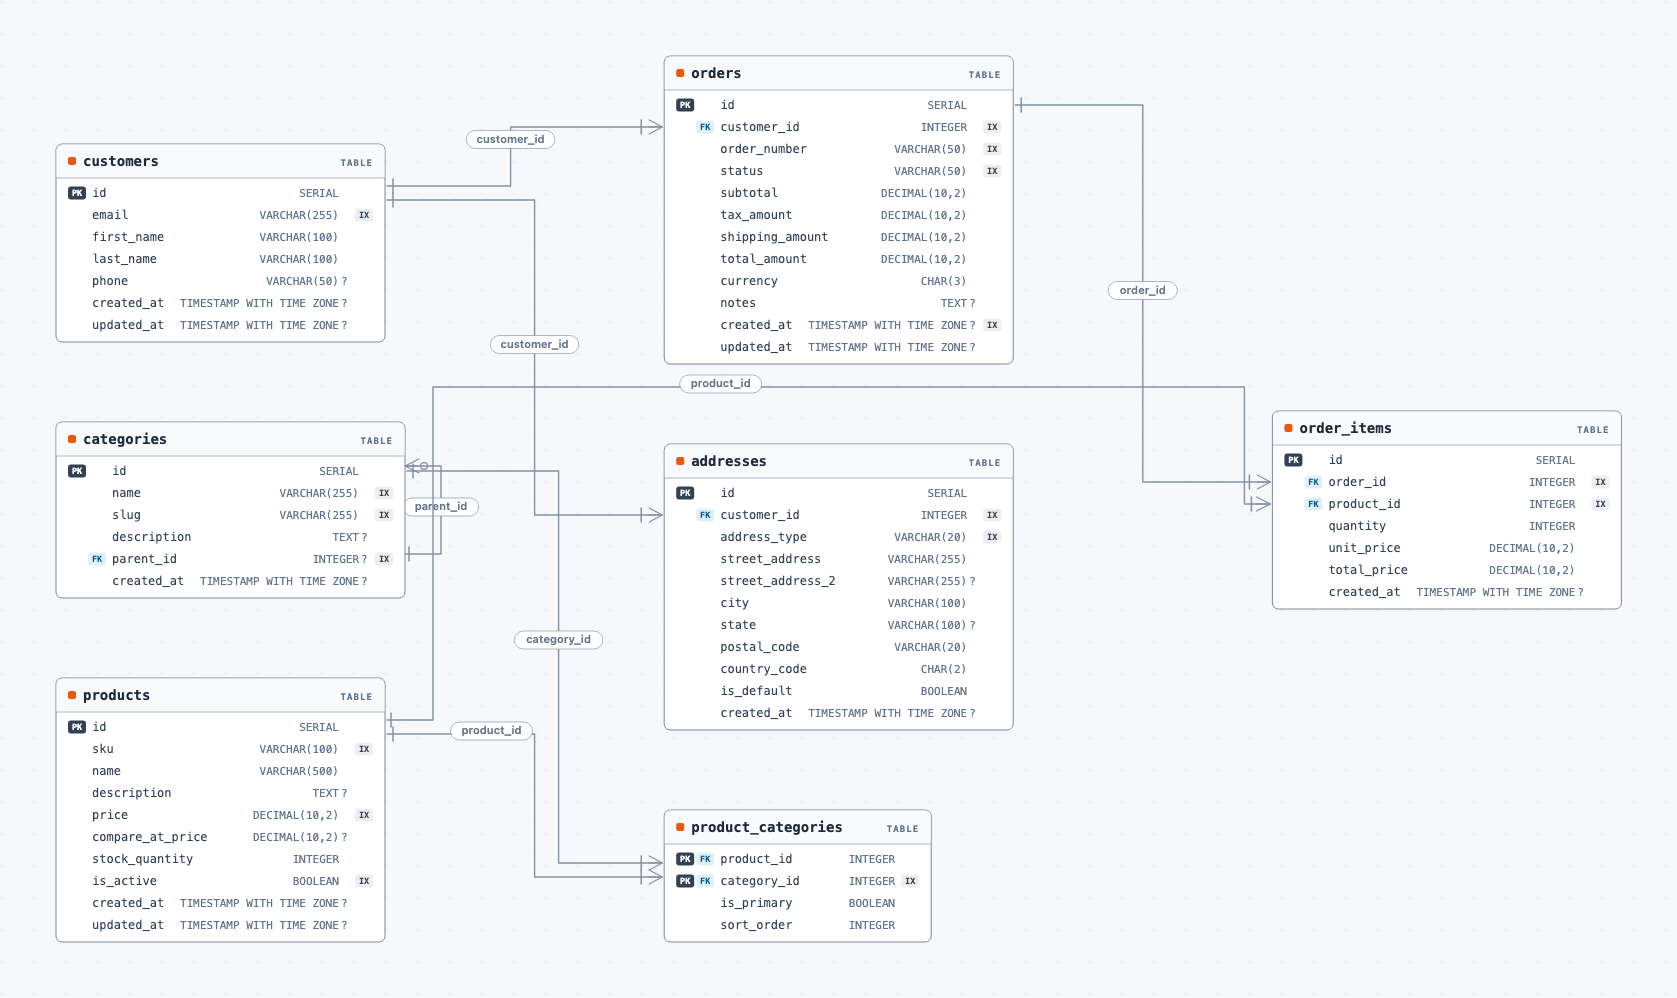
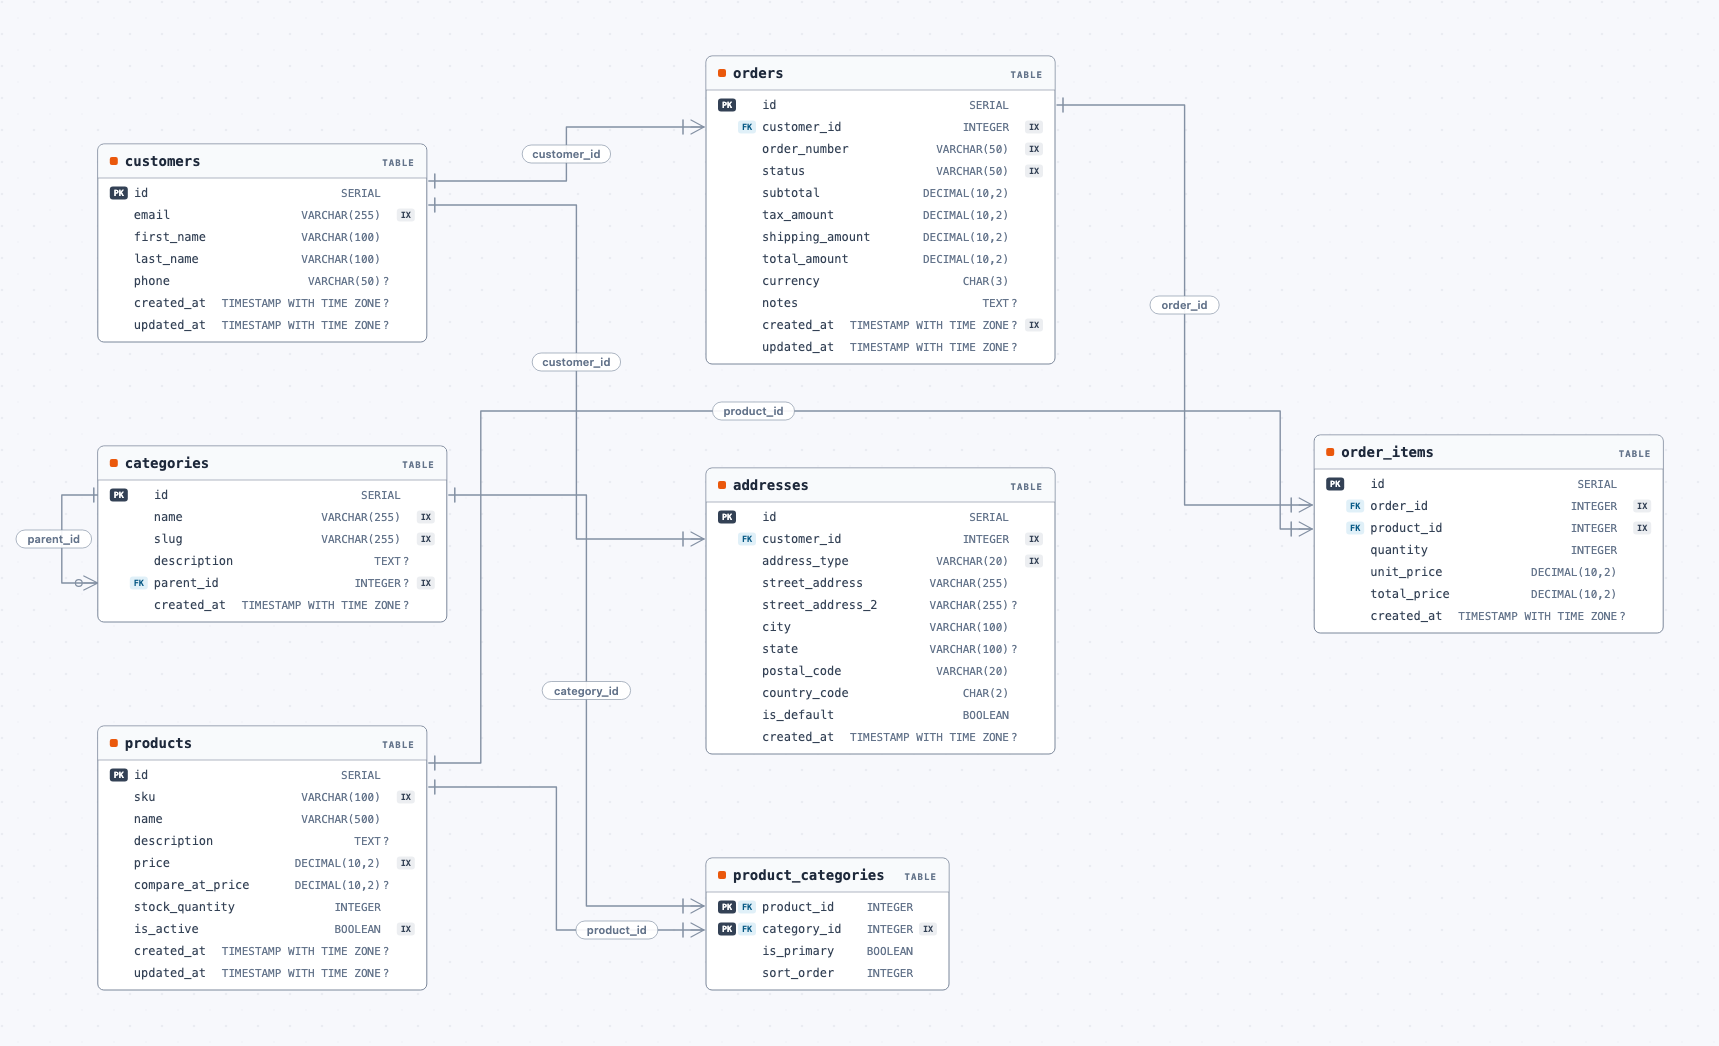
docs: describe marker-safe routing and label placement, refresh previews
ARCHITECTURE.md covers group headings as routing obstacles, the 30px
straight run kept for endpoint markers, the wider rank gap and port
spacing, channel spacing, straightened jogs, self-loops between their
column rows, labels kept on their own line, and the static SVG label
layer. The README previews are re-rendered: the static diagram's
self-loop now sits on the free side of its card, and the viewer's
customer_id line runs above the sales heading with its marker whole.

diff --git a/ARCHITECTURE.md b/ARCHITECTURE.md
@@ -233,9 +233,9 @@ Phases: build layout graph → grouping/focus → **card density** → layout al
 
 **Placement model** — Ranks come from longest-path layering after breaking foreign-key cycles with a greedy (Eades–Lin–Smyth) feedback arc set, so a dense cycle spans only the layers its acyclic skeleton needs. Crossing reduction runs on a proper layered graph: edges spanning several ranks are split into virtual nodes (shorter edges first, within a budget proportional to the node count), nodes without neighbours in the adjacent layer keep their slot, and the sweep keeps the ordering with the fewest crossings seen. Within each lane, alternating down/up sweeps move every ranked row toward the median centre of each node's neighbours (a weighted isotonic regression per row, bounded by the widest row), so parents and children line up without reordering or widening the lane. Nodes are then split into clusters: weakly connected components, merged with their group so a group container never spans two clusters. Inside a cluster, groups sit side by side as lanes that share the cluster's rank rows, so edges between groups still flow along the primary axis, and tables without any edge are packed into a grid below their lane. Clusters are wrapped into shelves along the secondary axis, sized toward a screen-friendly aspect ratio but never narrower than the widest cluster, so a single connected schema keeps its original placement. Routing uses the packed row index as the rank, and rows are disjoint bands along the primary axis. In force-directed mode, the packing pass only separates items that share a rank row, are directly linked, or sit next to a self-loop, so unrelated tables on different ranks can share a column; routing rows are then recomputed as disjoint bands of the final primary-axis extents. Each node's summed edge attraction is capped so the damped simulation stays stable around hubs referenced by hundreds of tables. Force-directed repulsion and overlap resolution use a uniform grid sized from the median node, with each node registered in every cell it covers, so one oversized table does not degrade them to O(n²); overlaps left after the pass budget are removed by a deterministic sweep.
 
-**Routing model** — Layout returns one canonical orthogonal backbone for routed edges. Hierarchical routing uses `port -> stub -> channel -> stub -> port`, then scores inter-rank, same-rank, and reverse-flow channel candidates in a deterministic greedy edge order. Foreign keys point from a child to the parent ranked above it, so that direction is the regular inter-rank flow whose channels must stay inside the gap between ranks; only edges pointing down the ranks are reverse edges. Bypass lanes start outside every node overlapping the rectangle spanned by the endpoints. Obstacle checks look nodes and placed labels up through a uniform-grid spatial index around each route segment instead of scanning every node per candidate. Candidate scoring treats obstacle hits, endpoint-side violations, and primary-direction backtracking against rank order as hard constraints before weighted soft costs for clearance, route length, bend count, center deviation, and channel congestion. After route selection, nearby parallel edges on the same channel may share a bundled trunk for readability. `orthogonal` and `curved` reuse this backbone, while `straight` skips control points and renders as a direct source-to-target segment.
+**Routing model** — Layout returns one canonical orthogonal backbone for routed edges. Hierarchical routing uses `port -> stub -> channel -> stub -> port`, then scores inter-rank, same-rank, and reverse-flow channel candidates in a deterministic greedy edge order. Foreign keys point from a child to the parent ranked above it, so that direction is the regular inter-rank flow whose channels must stay inside the gap between ranks; only edges pointing down the ranks are reverse edges. Bypass lanes start outside every node overlapping the rectangle spanned by the endpoints, and their stubs step out of each rank on the side facing the other one, judged by where the ranks sit so bottom-to-top and right-to-left layouts bypass cards too. Groups are positioned before routing, and each group heading's text area joins the cards as an obstacle for channels, detours, and labels, so no line runs through a heading. Obstacle checks look nodes, headings, and placed labels up through a uniform-grid spatial index around each route segment instead of scanning every node per candidate. Candidate scoring treats obstacle hits, endpoint-side violations, and primary-direction backtracking against rank order as hard constraints; next it ranks candidates that keep a 30px straight run at each card before the first bend (`MIN_ENDPOINT_STUB`, room for a whole Crow's Foot marker), adding lanes every 10px across the part of the rank gap that allows it, and only then weighs soft costs for clearance, route length, bend count, center deviation, and channel congestion, which counts edges on any channel within 9px so parallel lines never run side by side as one. Ranks sit 104px apart by default (also the compaction floor), enough for a marker at each end of a line and a label between them. After route selection, nearby parallel edges on the same channel may share a bundled trunk for readability; bundle anchors also reach past the marker. A vertical route whose ends are under 16px apart is drawn straight when one end can slide along its top or bottom side without crowding another port or crossing a card; side ports stay put, since their height names a column row. `orthogonal` and `curved` reuse this backbone, while `straight` skips control points and renders as a direct source-to-target segment.
 
-**Quality passes** — After backbone routing, `nudge_label` shifts edge labels away from overlapping nodes. `detour_around_obstacles` is no longer part of the non-self-loop path and is only used for self-loop handling, while routing keeps a detour activation count for any non-self-loop edge whose final backbone still intersects padded obstacles. Additionally, `auto_tuned` adjusts horizontal/vertical spacing based on node count and edge density before coordinate assignment, and port slot offsets keep parallel edges stable on each node side, shrinking the slot gap when needed so every port stays on its node side. `layout-json` exposes this routing state through graph-level and per-edge `routing_debug` metadata so fixture diffs can explain side policy, slot assignment, and selected channel coordinates directly. Finally, the canvas is fitted to every drawn element (nodes, groups, routes with marker room, and labels, including group labels that extend past their container); when routing places content left of or above the origin, the whole drawing is shifted so the `0 0 width height` viewport never clips it.
+**Quality passes** — After backbone routing, labels are placed on their own line: cards, headings, endpoint markers, and other labels are hard obstacles, while other lines and the label's own bends are soft ones, so a label takes the clearest spot along its line, steps aside only as far as still touches the line (measured across the local segment), and moves farther out (`nudge_label`) only when every spot on the line covers something hard. `detour_around_obstacles` is no longer part of the non-self-loop path and is only used for self-loop handling, while routing keeps a detour activation count for any non-self-loop edge whose final backbone still intersects padded obstacles. Additionally, `auto_tuned` adjusts horizontal/vertical spacing based on node count and edge density before coordinate assignment, and port slot offsets keep parallel edges stable on each node side, 24px apart and no closer than 20px so neighbouring Crow's Feet never merge, shrinking further only when the side itself is too short. Ports that tie on where the other card sits break the tie by column row only on left and right sides, so lines between the same two cards never cross. Self-loops are assigned after every other edge: each leaves at its foreign key row and re-enters at the referenced row (or spans at least 22px around the middle of a card without rows), takes the left or right side with fewer ports, and is packed with the other ports there. `layout-json` exposes this routing state through graph-level and per-edge `routing_debug` metadata so fixture diffs can explain side policy, slot assignment, and selected channel coordinates directly. Finally, the canvas is fitted to every drawn element (nodes, groups, routes with marker room, and labels with a 16px margin, including group labels that extend past their container); when routing places content left of or above the origin, the whole drawing is shifted so the `0 0 width height` viewport never clips it.
 
 Fixture-level routing regressions are audited in
 `crates/relune-app/tests/fixture_render_audit.rs`, which snapshots `layout-json`
@@ -255,7 +255,7 @@ CI job), and `make bench` times those layouts.
 ## 11. Rendering
 
 - **Theme** (`relune-render-theme`) — Shared palettes and theme-facing DTOs consumed by both renderers. `ThemeColors` includes `selection_color`, the blue-grey used by both renderers for hovered, highlighted, and selected elements and by the viewer chrome, so it never shares a hue with kind marks or review severities; `badges` holds the PK / FK / IX badge colors that SVG cards and the viewer's detail drawer share; and `group_fill` / `group_stroke` give group surfaces and their occasional boundary.
-- **SVG** (`relune-render-svg`) — Geometry, edge paths, labels, themes, optional embedded CSS. Tables, views, and enums share one positioned graph and are styled by node/edge kind. When a `DiagramOverlay` is provided (`diff` module), change kind and risk get separate visuals: a changed card is outlined in its change kind's color (`ThemeColors::diff`, dashed when removed) with a `+` / `−` / `~` marker in the header's text inset, a card added or removed as a whole is tinted throughout, and a changed row of a modified card gets a faint row tint and a marker in the inset, so marking needs no extra width; a changed type is drawn as `before → after` with the current type emphasized; changed relationship lines take the change color, a heavier stroke, and a dash when removed. Independently, a card with review findings gets a solid pill straddling its top border naming the highest severity and how many findings carry it (`breaking 1`, colors from `ThemeColors::risk`, whose magenta / orange / indigo / slate hues never repeat a change kind's green / red / amber, so a removed card's outline and its `breaking` label stay two signals). Tooltips list the change summary, its details, and every finding. Nodes, rows, and edges carry `diff-added` / `diff-removed` / `diff-modified` and `risk-<severity>` classes for downstream styling; unchanged cards keep their normal colors as context. Visual conventions: node cards use the theme's neutral surface, a 1px border, and a header divider, with the node kind shown only by a small colored mark before the table name; column rows draw the name left-aligned and the type right-aligned, with PK / FK badges, a `?` nullable marker, and the IX badge in fixed per-node slots (`relune_layout::metrics::ColumnSlots`) so they line up down the card; names and types share one clip per node; PK / FK / IX badges use per-theme colors that step down in weight (solid neutral PK, blue FK, grey IX), and the legend draws the same badges, plus the change markers and a sample risk label when an overlay marks changes; groups are a faint `group_fill` surface with a small heading and no frame, band, or shadow, and get a thin solid boundary only when `ambiguous_groups` finds another group or a non-member card overlapping the surface; edge arrow uses an open-chevron marker with `userSpaceOnUse` for constant size; cardinality markers use enlarged viewBoxes for density resilience. FK lines are thin strokes in the theme's quiet `edge_stroke`, while enum and view lines are dashed in their kind mark's hue; hovering a line recolours it in `selection_color`, with no glow or animation. Line labels stay in static SVG so the file reads on its own. Text and attribute values go through the shared escaper, which also replaces characters XML 1.0 forbids (C0 controls other than tab/newline/CR, U+FFFE, U+FFFF) with U+FFFD so the file always parses.
+- **SVG** (`relune-render-svg`) — Geometry, edge paths, labels, themes, optional embedded CSS. Tables, views, and enums share one positioned graph and are styled by node/edge kind. When a `DiagramOverlay` is provided (`diff` module), change kind and risk get separate visuals: a changed card is outlined in its change kind's color (`ThemeColors::diff`, dashed when removed) with a `+` / `−` / `~` marker in the header's text inset, a card added or removed as a whole is tinted throughout, and a changed row of a modified card gets a faint row tint and a marker in the inset, so marking needs no extra width; a changed type is drawn as `before → after` with the current type emphasized; changed relationship lines take the change color, a heavier stroke, and a dash when removed. Independently, a card with review findings gets a solid pill straddling its top border naming the highest severity and how many findings carry it (`breaking 1`, colors from `ThemeColors::risk`, whose magenta / orange / indigo / slate hues never repeat a change kind's green / red / amber, so a removed card's outline and its `breaking` label stay two signals). Tooltips list the change summary, its details, and every finding. Nodes, rows, and edges carry `diff-added` / `diff-removed` / `diff-modified` and `risk-<severity>` classes for downstream styling; unchanged cards keep their normal colors as context. Visual conventions: node cards use the theme's neutral surface, a 1px border, and a header divider, with the node kind shown only by a small colored mark before the table name; column rows draw the name left-aligned and the type right-aligned, with PK / FK badges, a `?` nullable marker, and the IX badge in fixed per-node slots (`relune_layout::metrics::ColumnSlots`) so they line up down the card; names and types share one clip per node; PK / FK / IX badges use per-theme colors that step down in weight (solid neutral PK, blue FK, grey IX), and the legend draws the same badges, plus the change markers and a sample risk label when an overlay marks changes; groups are a faint `group_fill` surface with a small heading and no frame, band, or shadow, and get a thin solid boundary only when `ambiguous_groups` finds another group or a non-member card overlapping the surface; edge arrow uses an open-chevron marker with `userSpaceOnUse` for constant size; cardinality markers use enlarged viewBoxes for density resilience. FK lines are thin strokes in the theme's quiet `edge_stroke`, while enum and view lines are dashed in their kind mark's hue; hovering a line recolours it in `selection_color`, with no glow or animation. Line labels stay in static SVG so the file reads on its own; their pills are centered on the layout's label position and drawn in one layer above every line and card, so no line cuts through a label. The HTML viewer renders with `labels_on_top` off, keeping each label inside its edge group where hover and selection styles reach it. Text and attribute values go through the shared escaper, which also replaces characters XML 1.0 forbids (C0 controls other than tab/newline/CR, U+FFFE, U+FFFF) with U+FFFD so the file always parses.
 - **HTML** (`relune-render-html`) — Wraps SVG with interactive behavior (pan/zoom, search, filters, grouping toggles, highlights) and embeds node/edge kind metadata for client-side features. Hover uses a lightweight popover plus subtle 1-hop preview, while click promotes a node into fixed selection and opens the detail drawer; highlighted tables are outlined in a per-theme blue-grey `--selection-color` rather than glowing, so selection never shares a hue with kind marks or warnings; neighbors that reference the focused table get a dashed outline and the tables it references a solid one, so direction reads without a second hue. Nodes are indexed once at load, and hover only touches the previewed neighborhood without rebuilding the object browser; clicking a line (each line is also a focusable button activated with Enter or Space), or a relationship in a table's drawer, selects that relationship: its path and ports, both endpoint tables, and every column on each end (all columns of a composite key) are emphasized, and a relation card in the drawer's place lists one `from.column → to.column` line per column pair. The card is a live region that takes focus when chosen from the keyboard, and closing it returns to the originating drawer. Each line gets a wide transparent hit path in the viewer only, so the thin stroke stays easy to click at any zoom, and focus that would scroll the clipped viewport is turned into a pan. Line labels are hidden in the viewer until a line is hovered, focused, highlighted, or selected. Lines share one roving Tab stop; arrow keys, Home, and End move between lines that a hidden group or filter has not removed, and focus on a line that gets hidden moves to the first visible one. The explorer sidebar leads with search and the object list, with Filters and Groups as collapsed `<details>` sections whose open state, like the sidebar's hidden state (`S`), persists in session storage; the detail drawer sizes to its content, the minimap steps left of and above an open drawer so it never sits under the zoom controls, the floating filter bar shows only while the sidebar is hidden and drops below the sidebar's open button on narrow screens, hiding the sidebar moves focus held inside it to that button, and hiding a group also hides its surface, label, and minimap rectangles. The drawer's key pills reuse the theme's badge colors. Search, the object browser, and URL restoration share one metadata matcher (names, schema, id, column names and types), so tooltip and badge text never match. Shareable URL hashes write list values (facets, hidden groups) as repeated parameters, record a selected relationship as `r=from(columns)>to(columns)` in place of the table selection (a duplicate foreign key on the same columns adds `~2`, `~3`, ... in metadata order), and keyboard shortcuts ignore Ctrl/Cmd/Alt chords. When a `DiagramOverlay` is provided, each table's metadata (JSON) carries `diff_kind` and `diff_details`, each column `diff_kind` and `previous_data_type`, each edge `diff_kind`, and each table's review findings go into `issues` with their review severity. The detail drawer shows the change kind badge, a Changes list (including FK, index, and check changes), `before → after` types, and a Risks section listing each finding with its severity and mitigation; the hover popover and object browser show the same `breaking 1`-style risk label as the SVG, and the filter panel offers Changes and Risk facets. Viewer logic is TypeScript under `crates/relune-render-html/ts/`; bundled JS is committed under `crates/relune-render-html/src/js/` and consumed via `include_str!`. The pure state/action helpers (`*_state.ts`, `*_actions.ts`, edge dimming, viewer runtime) have unit tests, and the search, highlight, and URL-state modules are exercised against viewer markup; all are Vitest suites (`ts/*.test.ts`, happy-dom) run through `make test-html-viewer`. Node + pnpm are required for renderer development when regenerating those bundles, but Rust builds consume the committed assets without installing frontend dependencies at build time.
 
 The two crates are separate to keep low-level vector output apart from document bundling and JS tooling.
